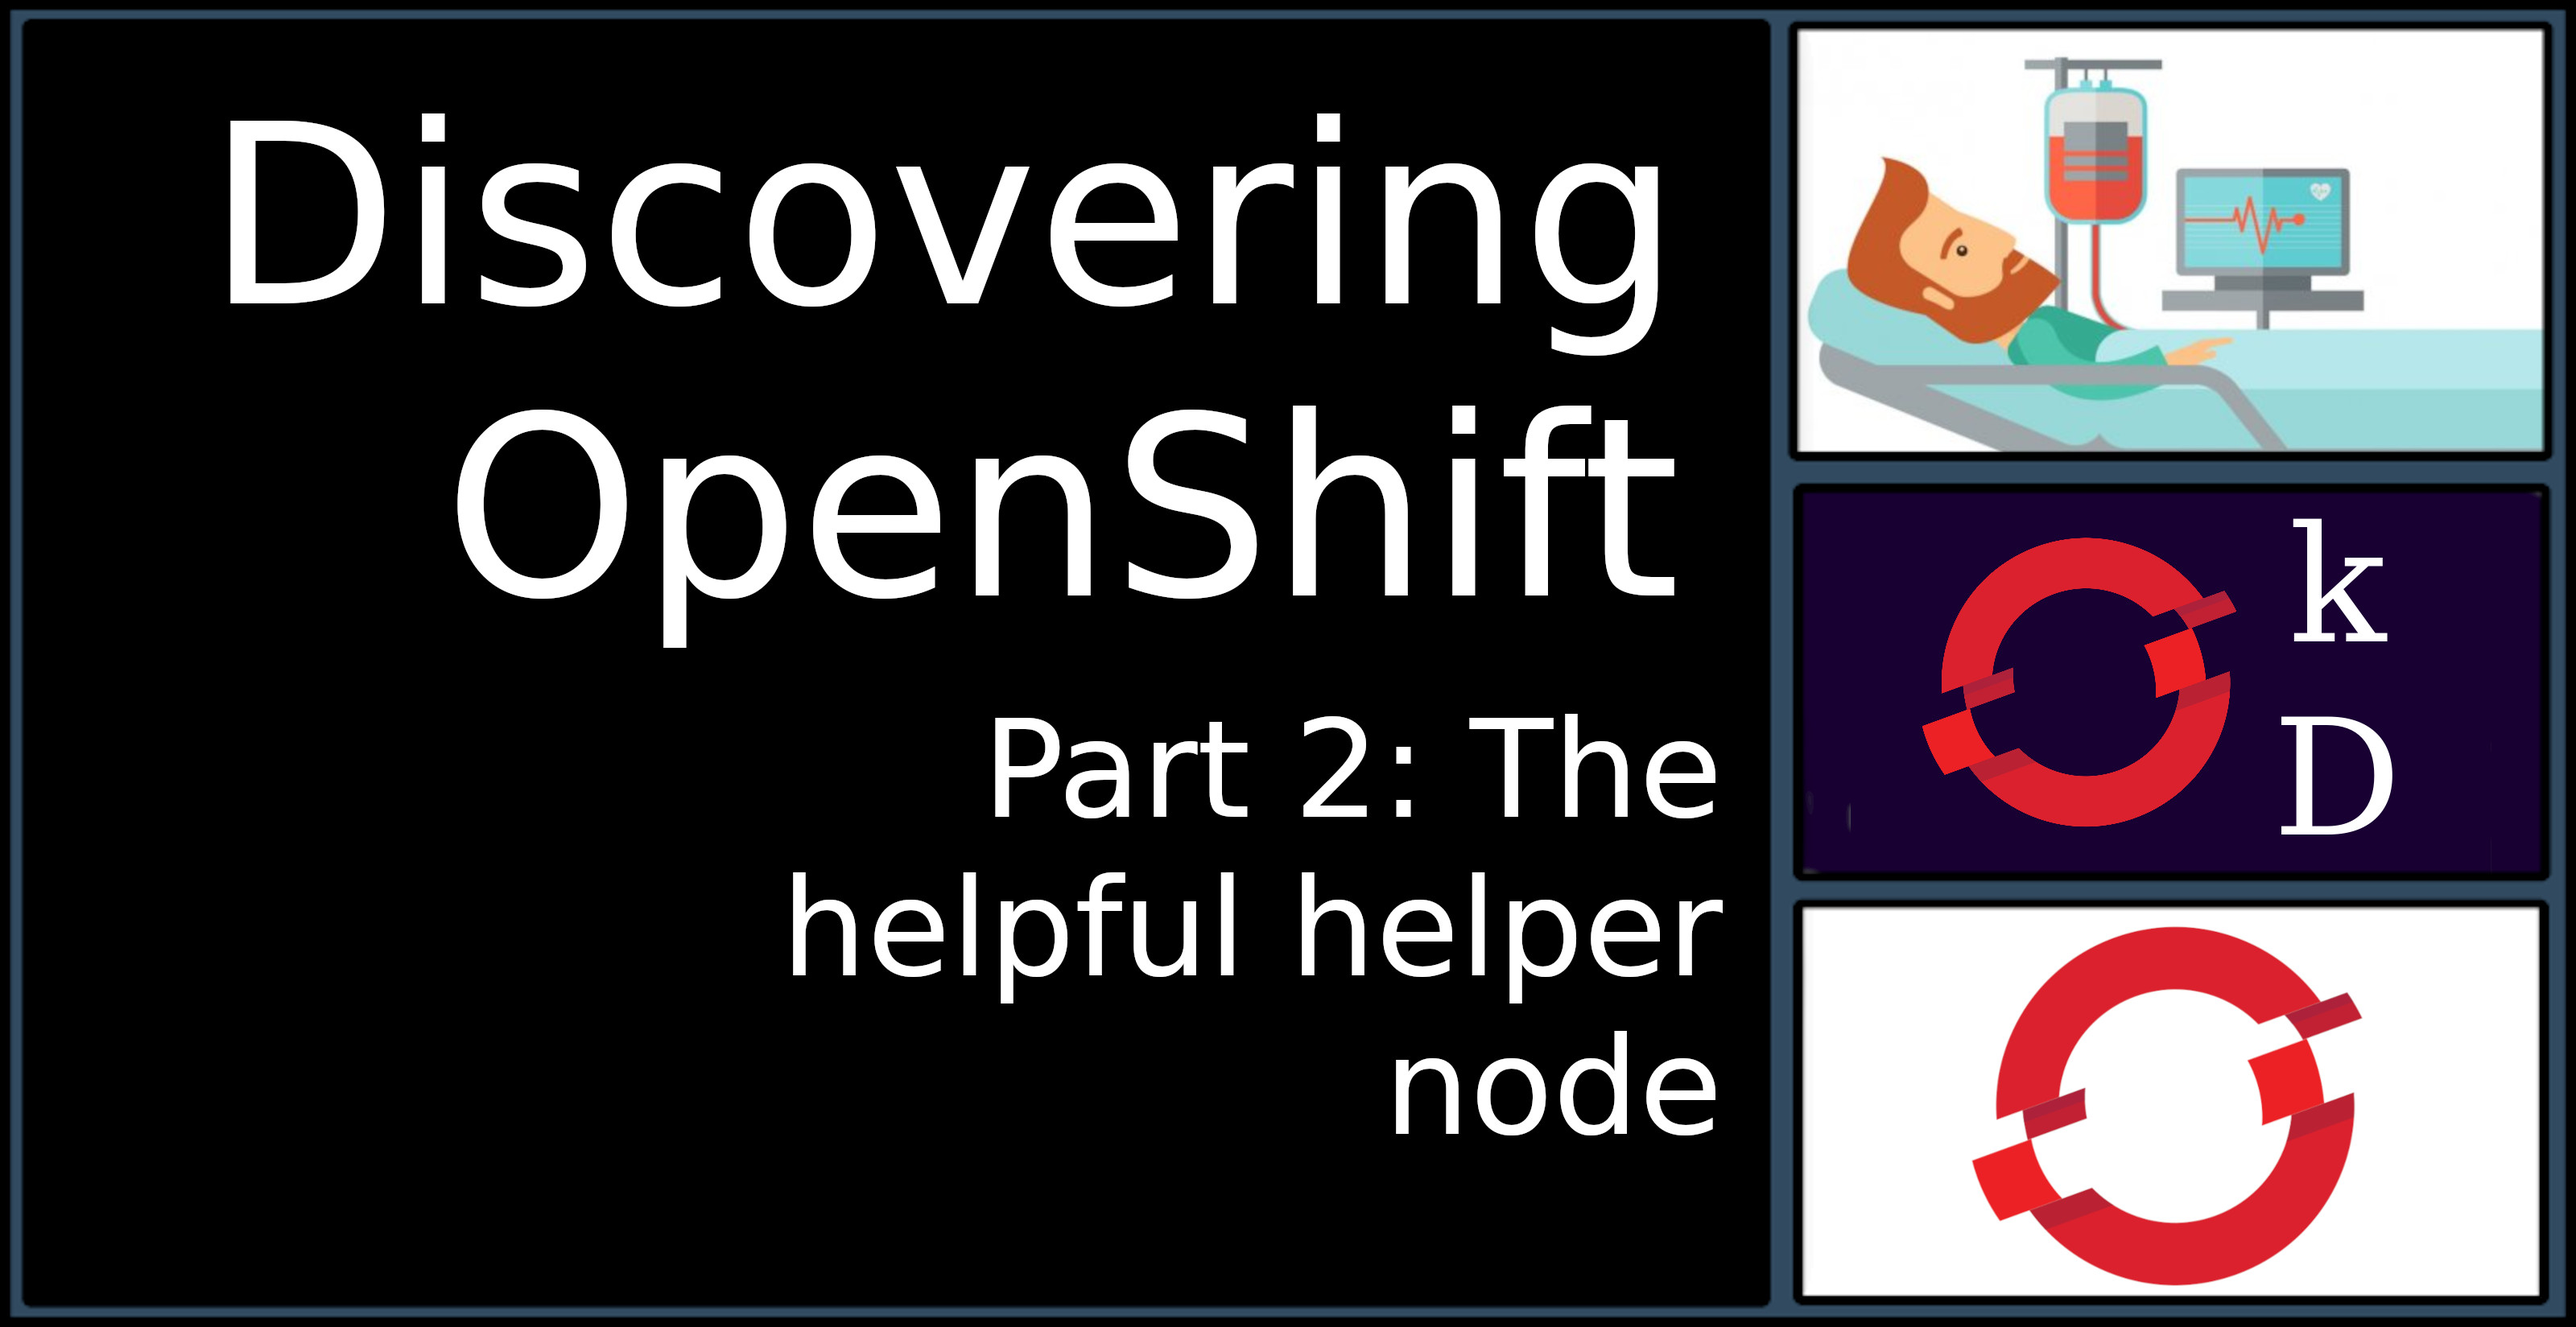
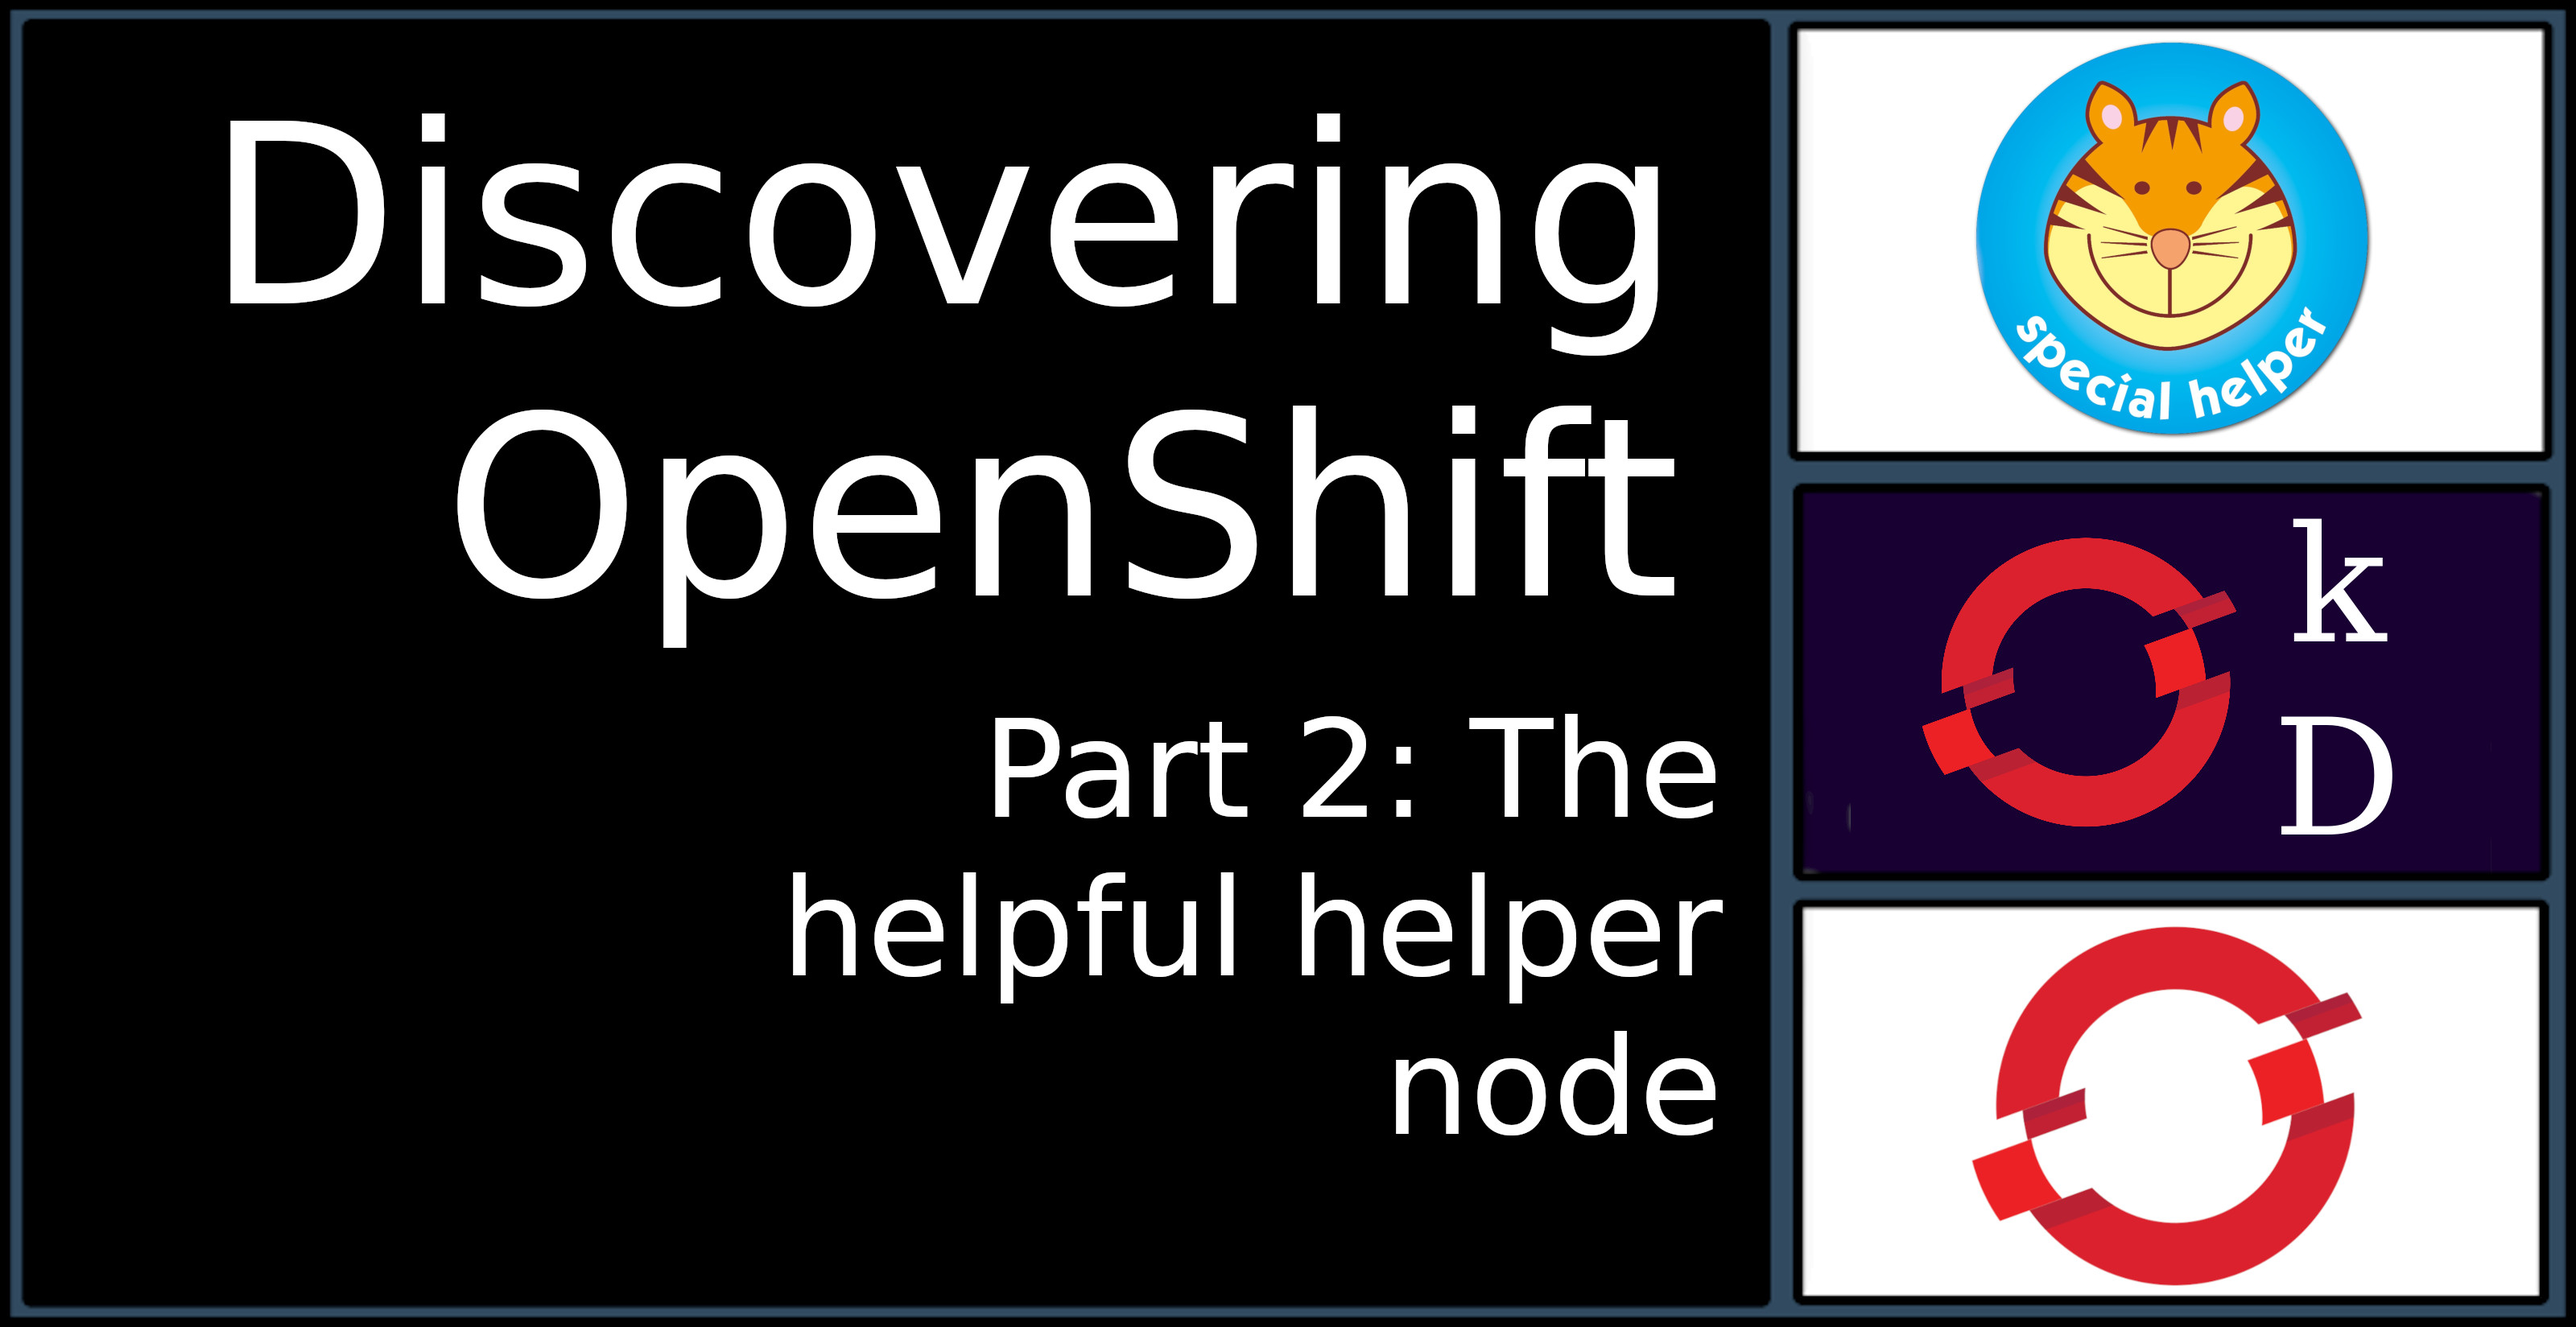
new draft

Changed region(s): [[0.6875, 0.0309, 1.0, 0.3402]]

diff --git a/_drafts/2021/2021-06-10-openshift-part-3/2021-06-10-openshift-part-3.md b/_drafts/2021/2021-06-10-openshift-part-3/2021-06-10-openshift-part-3.md
@@ -1,0 +1,112 @@
+---
+layout: post
+title: "Discovering OpenShift: Part 2"
+date: 2021-06-09
+description: "Discovering OpenShift: Part 2 - the helpful helper node"
+img: openshift_part2.jpg 
+tags: [openshift, kubernetes,okd] # add tag
+toc: true
+---
+
+My wife gives me a lift home from the Mater Hospital at about 12. My head is spinning with the things I want to do when I get home. However, I had not taking into account that there would be physical side affects from being blown up like a gross, pasty flesh balloon. One of them, apparently, is that when I walk longer than 100m I get hiccups. These are particularly joyful because whenever I hiccup, the knife wounds from the small angry doctor stretch uncomfortably. 
+
+At home, I open my laptop, and powerup 2 servers in my homelab. The plan is simple:
+
+- I will make 2 clusters: one using OKD and the latest and greatest Fedora Core OS, and one using OpenShift and the RedHat universal base image. I don't really know how I'll do the latter - I'll have to go through the details of the YouTube video where [Andrew Sullivan installs OpenShift](https://www.youtube.com/watch?v=Be0dRq0wjWE) with static IP's. People who know me realise that this is 'Classic Ray' - where there was 1 thing, there are are now 2 things. Almost the same but different. Twice the work and double chance of failure, but I just can't fight the OCD. In this case the OKD OCD. 
+- I will use the helper node referenced in the above mentioned video. This should allow me to get away with creating a cluster without the pfSense box described in Craig Robinson's approach. pfSense was only fulfilling the role of a DHCP server, which is something I'm comfortable setting up and manipulating by hand (e.g. with DNSMasq). It looks like the 'helper node' ansible scripts include a DHCP server though, so I'm comfortable in binning the pfSense rig.
+- I want to avoid messing around with spinning up nodes and then harvesting mac addresses, so I'm going to use the trick of rebuilding the Fedora Core OS iso images with all the kernel/bootstrap arguments baked into the ISO. 
+- Success will be if I can get access to the console and deploy something like Wordpress + MariaDB container to the cluster.
+
+And then the REAL learning starts.
+
+# The Home-lab
+
+I set about creating the various VM's. The 2 servers I have that will be running this project are both Dell R610's - venerable grandfathers in 'server years' at this point, both them dating back to 2010 or 2011. They both have 96 Gigs of RAM, and both have 2x Xeon L5640 CPU's, giving me a total of 12 hyperthreaded CPU's. Each server should have enough RAM and CPU available to host a complete cluster (although, I realise that putting all your eggs in one basket like this in a real world scenario would be fool hardy and inadvisable). 
+
+One of them is running Proxmox. This will host the OKD cluster. It's got 6x600GB SAS drives, one running the OS and the 5 in a RaidZ1 arrangement giving me about 2.7 GB of useful space
+
+```
+~# zpool list
+NAME    SIZE  ALLOC   FREE  CKPOINT  EXPANDSZ   FRAG    CAP  DEDUP    HEALTH  ALTROOT
+vol01  2.72T   175G  2.55T        -         -     4%     6%  1.00x    ONLINE  -
+
+```
+
+The other server is running VMWare Vsphere 6.7. It also has 6x600GB, but these are glued together in one volume by the onboard Perc Raid Controller. This one will host the OpenShift cluster.
+
+# Solving the 'Separate Network' problem
+
+I make 2 Centos Stream 8 helper nodes - one on each server, and immediately I run into my first problem. I take for granted the networking modes available in programs like VirtualBox. Both Proxmox and VMWare have problems. 
+
+<div class="notebox">
+     <b>Virtual Box networking</b>
+     
+     <p>VirtualBox makes networks for VMs really easy. you get a choice of NAT, Bridged or HostOnly (+ some other variations in later release)</p>
+     <ul>
+       <li>NAT - a separate network with Internet access through the host. DHCP and masquerading comes built in.</li> 
+       <li>Bridged - bridged to the host's network card so the guest looks like it's on the same network as the host. </li>
+       <li>HostOnly - completely isolated network with a nic on the host and a nic on each guest.</li>
+    </ul>
+</div>
+
+For Proxmox, there really isn't much available in terms of networking config. In the configuration dialogues, there's a few places to put in VLAN id's but that's about it. I assume that's because in an enterprise setup, you'll have a couple of nic's in each host, and each one will be assigned a purpose (management, storage, data, etc). VM's on assigned to an interface will take advantage of the services on the VLAN e.g. 200 is DEV network, and this network will have it's own DNS, ldap, etc. There is no out of the box way to make an 'isolated' virtual network. A bit of googling shows a few worked examples on the Proxmox wiki [^1]. The example that have also includes ip masquerading and NAT, which will be handy because we need a way for the VM's on this network to reach the internet.
+
+
+```
+auto vmbr0
+#private sub network
+iface vmbr0 inet static
+        address  10.10.10.1
+        netmask  255.255.255.0
+        bridge-ports none
+        bridge-stp off
+        bridge-fd 0
+
+        post-up   echo 1 > /proc/sys/net/ipv4/ip_forward
+        post-up   iptables -t nat -A POSTROUTING -s '10.10.10.0/24' -o eno1 -j MASQUERADE
+        post-down iptables -t nat -D POSTROUTING -s '10.10.10.0/24' -o eno1 -j MASQUERADE
+```
+
+
+This brings me swiftly onto the VMWare problem (which, to be true to the exact timeline, I will only discover in a few days time when setting up the OpenShift cluster). The problem here is that VMWare doesn't have any built in NAT support. You can build up virtual networks and virtual switches, but you don't get anything for free in terms of services. This means the another box (for example the pfSense box that was originally helpfully suggested) or the helper node is going to have to act as a network gateway for the OpenShift network and handle all the NATting.
+
+This was a fun return to lab that I remember enjoying in third year university, but I can't remember much else about it. Not that remembering exact commands would have been helpful - I think we were running SuSE 6.2 or something. Anyway, a bit of light googling shows how we can enable masquerading and NAT on a Centos 8 (stream) box:
+
+```
+/bin/bash
+# Assuming that your Linux box has two NICs; ens224 attached to WAN and eth1 attached to LAN
+# eth0 = outside = ens224
+# eth1 = inside = ens192
+# [LAN]----> ens192[GATEWAY]ens224 ---->WAN
+# Run the following commands on LINUX box that will act as a firewall or NAT gateway
+firewall-cmd --query-interface=ens224
+firewall-cmd --query-interface=ens192
+firewall-cmd --get-active-zone 
+# in my case both nic's where in a zone called public - as this is a lab I didn't waste time moving one to an 'internal' zone
+firewall-cmd --zone=public --add-masquerade --permanent 
+firewall-cmd --reload 
+# ip_forward is activated automatically if masquerading is enabled.
+# To verify:
+cat /proc/sys/net/ipv4/ip_forward 
+# set masquerading to internal zone
+firewall-cmd --reload 
+firewall-cmd --direct --add-rule ipv4 nat POSTROUTING 0 -o ens224 -j MASQUERADE
+firewall-cmd --direct --add-rule ipv4 filter FORWARD 0 -i ens224 -o ens192 -j ACCEPT
+firewall-cmd --direct --add-rule ipv4 filter FORWARD 0 -i ens224 -o ens192 -m state --state RELATED,ESTABLISHED -j ACCEPT
+firewall-cmd --reload
+
+```
+
+# The Helper node
+
+The 'OCS helper node' has been elevated to official status and is available on github: [https://github.com/RedHatOfficial/ocp4-helpernode](https://github.com/RedHatOfficial/ocp4-helpernode). If you follow the link at the top of the github Readme, it takes you to HelperNode V2, which is a single downloadable executable that helps you set up the configuration, and then renders all the services (DNS, DHCP, webservice for ignition and BIOS files) as podman containers. It seems elegant and easy to use. I couldn't get it to work though.
+
+So I checked out V1 implemented as series of Ansible scripts, and set that up. 
+
+# Bed time
+
+By the time I'd done all that, it was time for bed. I had been putting off the process of making the custom ISO's and now, with a few minutes to go before sleeping became a critical requirement, I couldn't go any further without unpacking, configuring and then re-rolling the ISO's. This happy job will have to wait until tomorrow.
+
+
+[^1]:  Proxmox networking wiki: [https://pve.proxmox.com/wiki/Network_Configuration](https://pve.proxmox.com/wiki/Network_Configuration)
+
